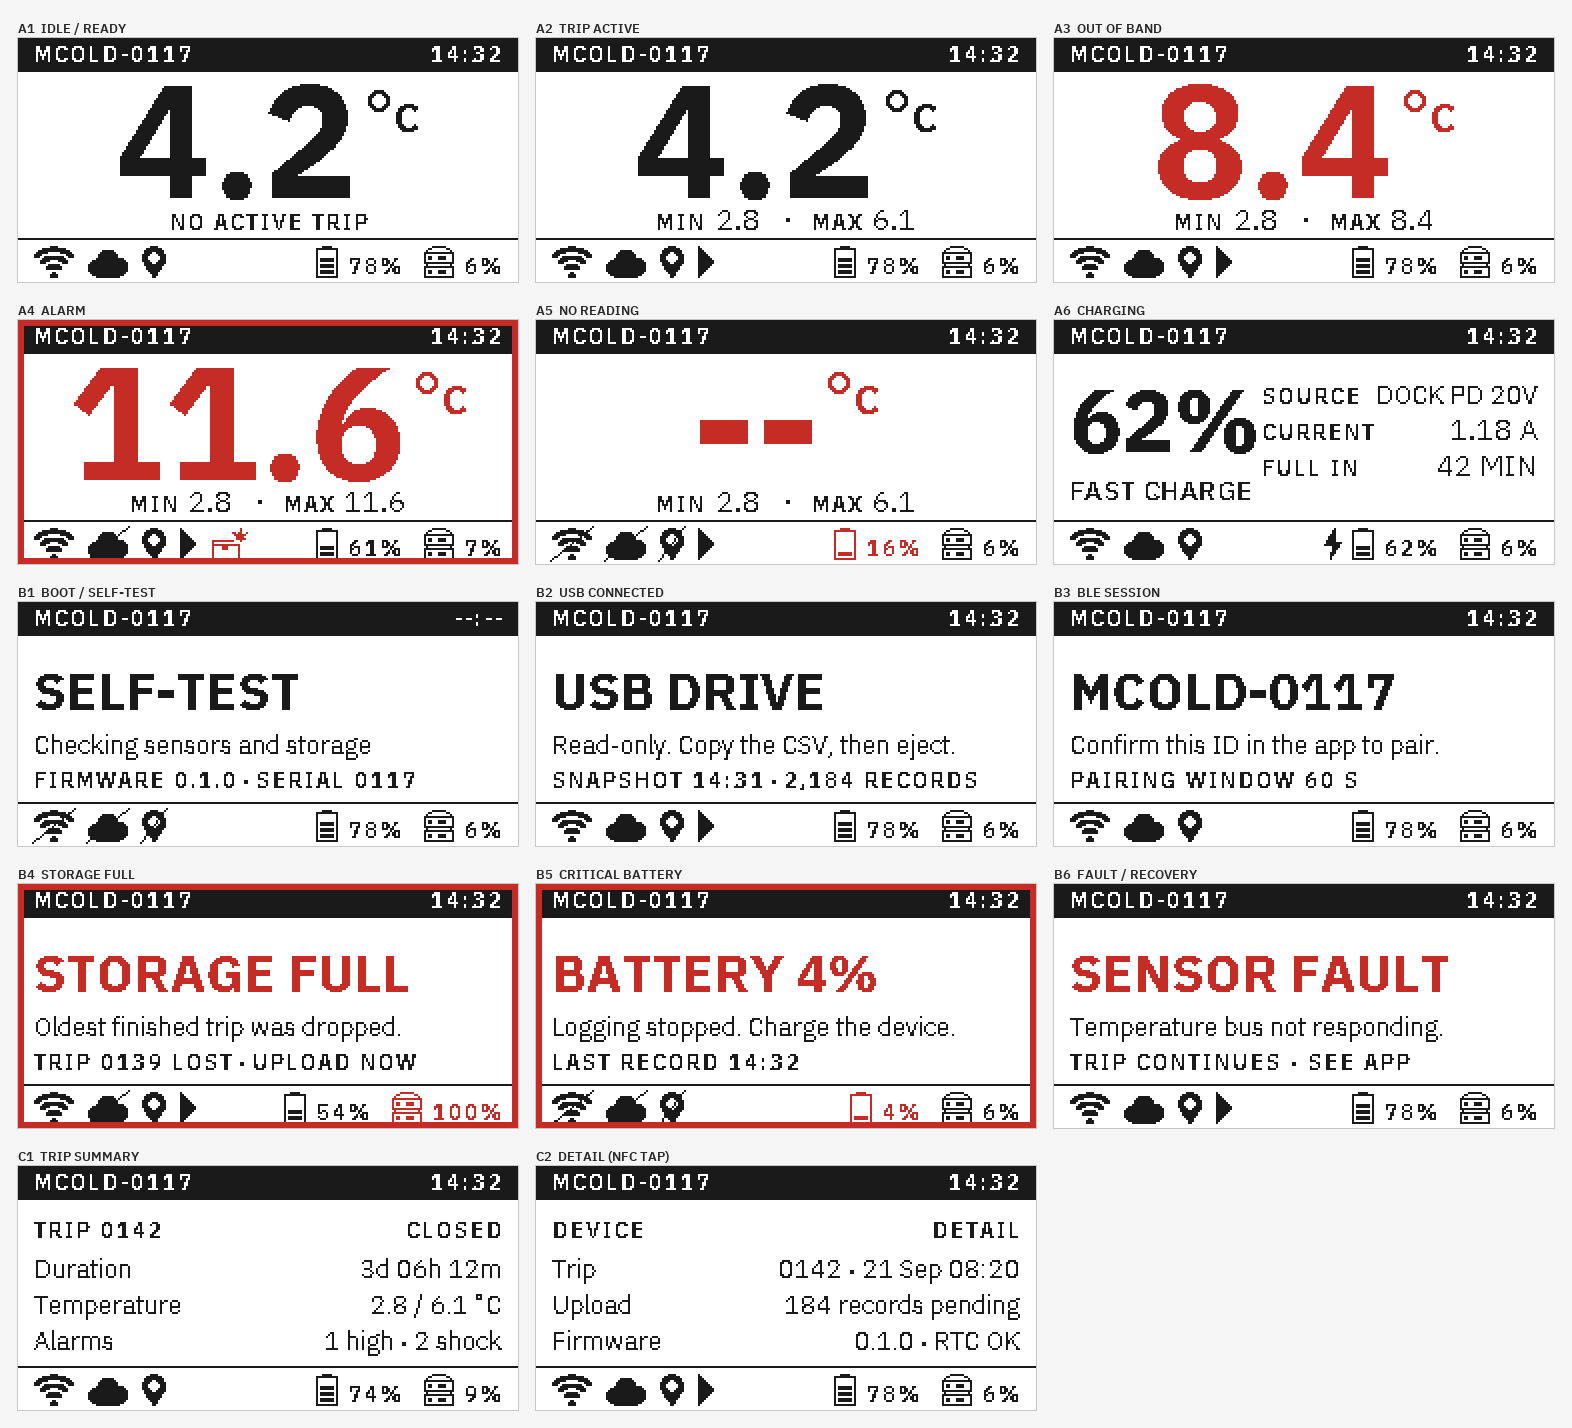
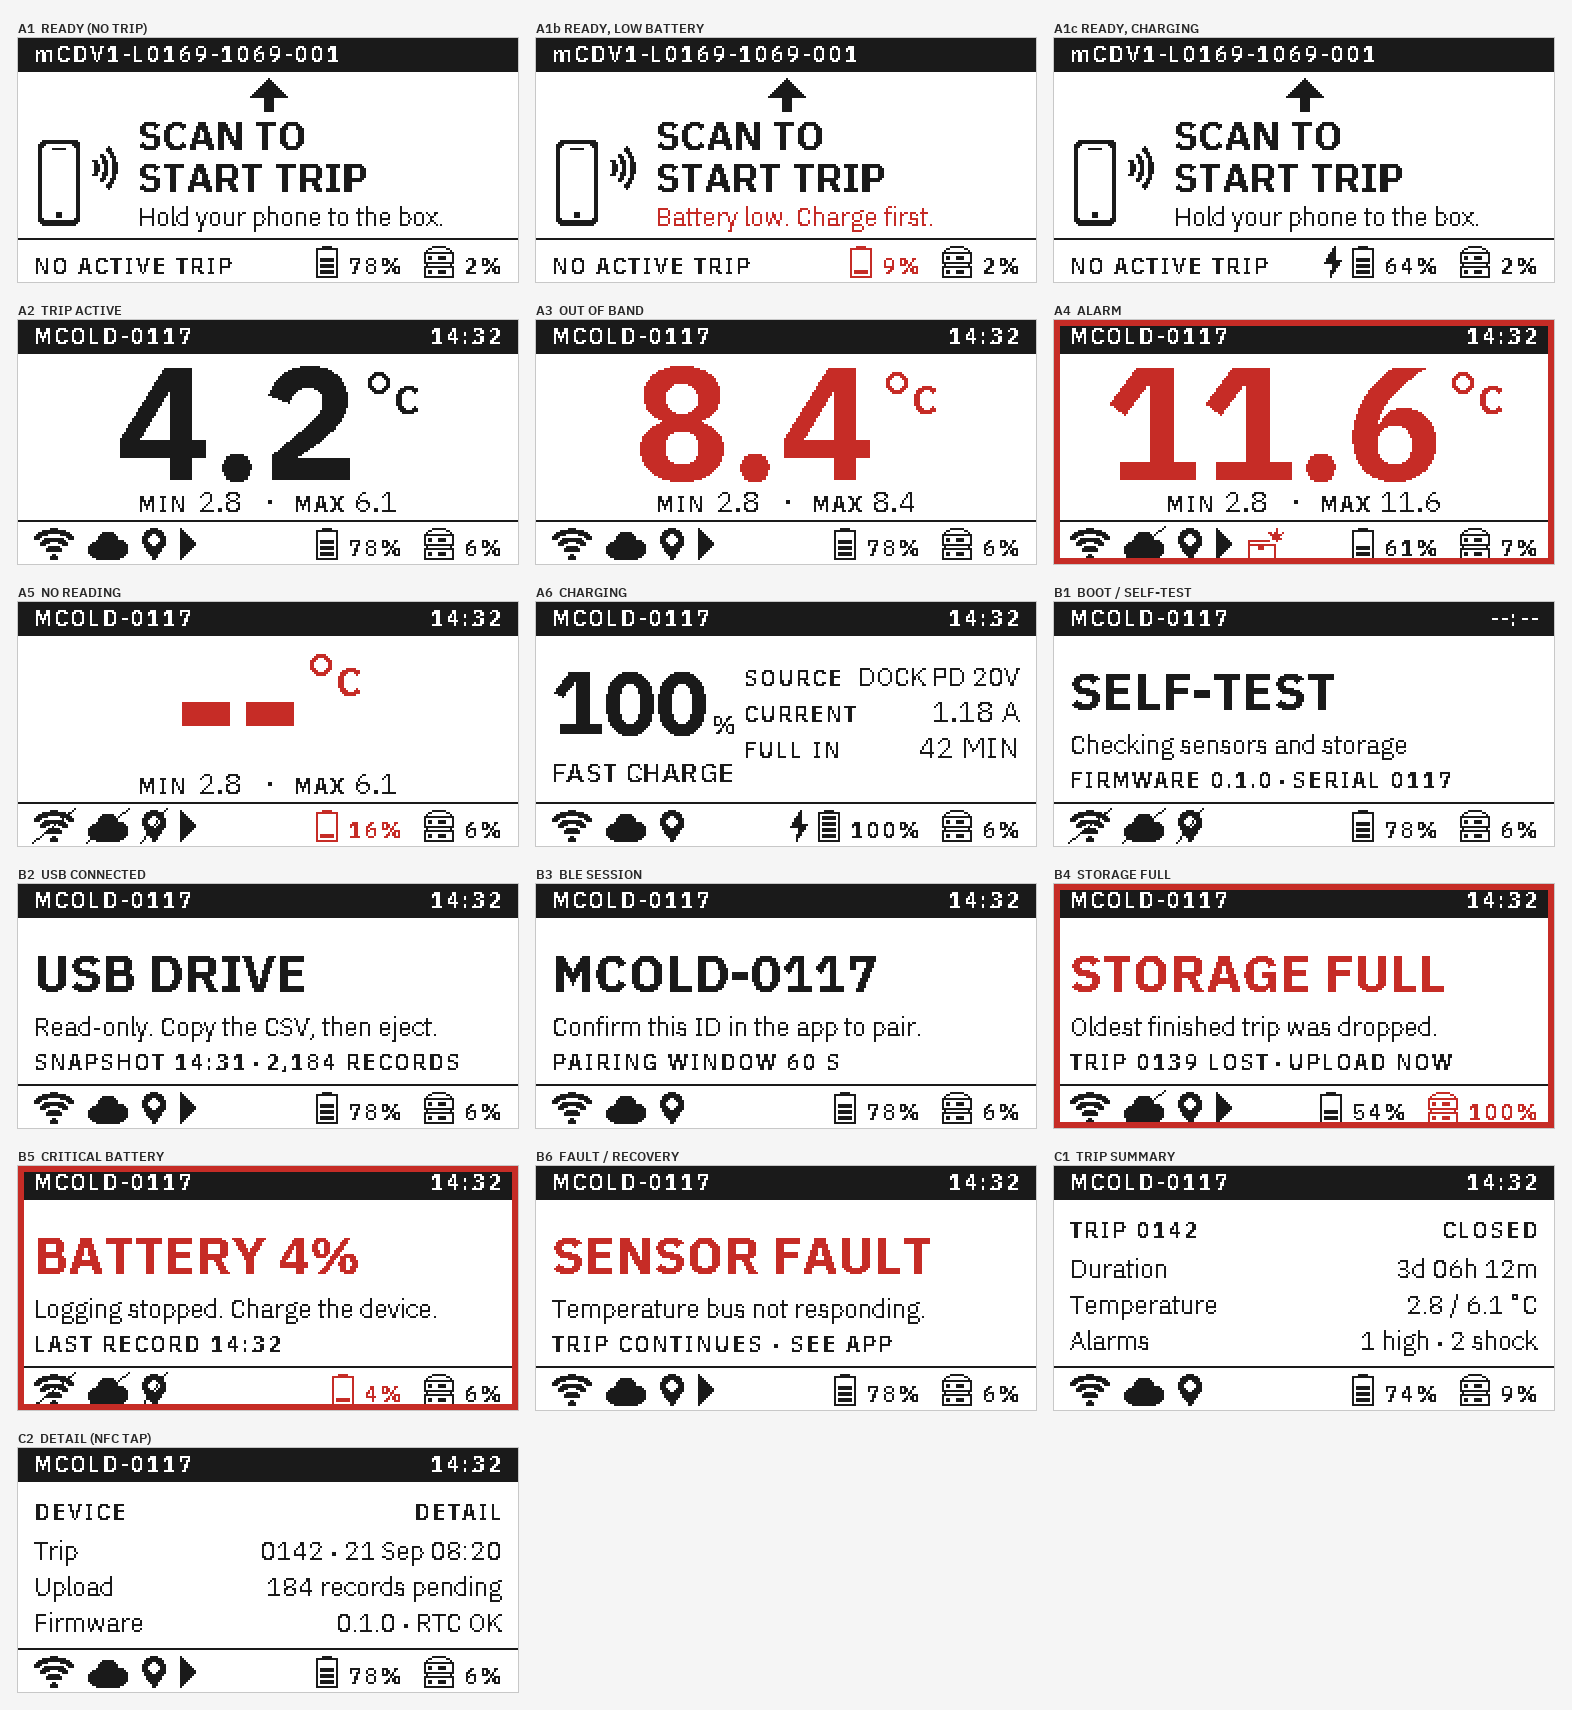
display-mock + design: READY page (scan to start trip)

diff --git a/display-mock/render.py b/display-mock/render.py
@@ -51,6 +51,7 @@ READING = font("Light", 15)      # min/max and charge-row values
 READINGS = [font("Light", s) for s in (15, 13, 12)]  # right-aligned values
 STATUS = font("Medium", 13)      # charge state word
 TITLE = font("Bold", 26)         # takeover headline
+TITLE_S = font("Bold", 20)       # READY headline, under the arrow
 BIG = font("Bold", 44)           # state of charge
 HEROES = [font("Bold", s) for s in (80, 72, 64)]
 HERO_UNIT = font("Bold", 20)     # the C of the unit; the ring is drawn
@@ -78,6 +79,7 @@ ICON_BOTTOM = 120   # footer icons stop one row above this
 # not. The battery is the one exception: it is a gauge, so it is drawn
 # from its value rather than blitted.
 ICONS = icons.bitmaps()
+TAP = icons.tap_rows()
 BATT_W, BATT_H = 11, icons.ICON_H
 
 
@@ -150,7 +152,7 @@ class Screen:
         self.text((EDGE_R, BASE_BAR), clock, CAPS, WHITE, anchor="rs", track=TRACK)
 
     def footer(self, *, trip=False, shock=False, wifi=False, cloud=False,
-               gnss=False, charging=False, battery=78, storage=6):
+               gnss=False, charging=False, battery=78, storage=6, note=None):
         """One row of state. `storage` is percent USED, so both readings
         move toward their own bad news and the red rule reads the same way
         for each. No SD indicator -- the card is optional and not
@@ -163,8 +165,14 @@ class Screen:
         # like "not refreshed". The two that come and go sit after them,
         # so neither ever shifts what is already there.
         x = M
-        for name, on in (("wifi", wifi), ("cloud", cloud), ("gnss", gnss)):
-            x += self.icon(name, x, ICON_BOTTOM, off=not on) + GAP
+        if note:
+            # READY: a still frame, so no live link icons -- they would be
+            # out of date within the hour and the frame is meant to stay.
+            self.text((M, BASE_FOOT), note, CAPS, track=TRACK)
+            x += self.width(note, CAPS, TRACK) + GAP
+        else:
+            for name, on in (("wifi", wifi), ("cloud", cloud), ("gnss", gnss)):
+                x += self.icon(name, x, ICON_BOTTOM, off=not on) + GAP
         if trip:
             x += self.icon("trip", x, ICON_BOTTOM) + GAP
         if shock:
@@ -341,13 +349,53 @@ def monitor(name, *, device="MCOLD-0117", clock="14:32", temp="4.2",
 
 
 # ---------------------------------------------------------------------
+# Ready -- no trip. One instruction and nothing that goes stale: no clock,
+# no temperature, no link icons, so the frame stays until a trip starts
+# or the battery has moved 5 % (decided 2026-10-05).
+# ---------------------------------------------------------------------
+def ready(name, *, device="mCDV1-L0169-1069-001", low=False, **flags):
+    s = Screen(name)
+    s.header(device, "")
+    # The arrow, centred, points at the tag: the NFC antenna sits above the
+    # middle of the panel (decided 2026-10-05).
+    m = Image.new("L", (W, H), 0)
+    d = mono(m)
+    cx, tip = W // 2, BAR + 3
+    d.polygon([(cx, tip), (cx + 9, tip + 9), (cx + 2, tip + 9), (cx + 2, tip + 16),
+               (cx - 2, tip + 16), (cx - 2, tip + 9), (cx - 9, tip + 9)], fill=255)
+    top = RULE - 6 - len(TAP)
+    for y, row in enumerate(TAP):
+        for x, ch in enumerate(row):
+            if ch == "#":
+                m.putpixel((M + x, top + y), 255)
+    s._stamp(m, BLACK)
+    x = M + len(TAP[0]) + 10
+    s.text((x, 56), "SCAN TO", TITLE_S)
+    s.text((x, 77), "START TRIP", TITLE_S)
+    if low:
+        s.text((x, 94), "Battery low. Charge first.", BODY, RED)
+    else:
+        s.text((x, 94), "Hold your phone to the box.", BODY)
+    for line, fnt in (("START TRIP", TITLE_S), ("Hold your phone to the box.", BODY),
+                      ("Battery low. Charge first.", BODY)):
+        if x + s.width(line, fnt) > EDGE_R:
+            print(f"  warn {name}: {line!r} overflows by "
+                  f"{round(x + s.width(line, fnt) - EDGE_R)} px")
+    s.footer(note="NO ACTIVE TRIP", **flags)
+    return s.save()
+
+
+# ---------------------------------------------------------------------
 # Charge screen -- no temperature; the full charging picture instead.
 # ---------------------------------------------------------------------
 def charge(name, *, device="MCOLD-0117", clock="14:32", soc=62,
            state="FAST CHARGE", rows=(), **flags):
     s = Screen(name)
     s.header(device, clock)
-    s.text((M, 66), f"{soc}%", BIG)
+    # The number big, the sign small: "100%" in the big face is 121 px and
+    # ran into the rows beside it (2026-10-05).
+    s.text((M, 66), f"{soc}", BIG)
+    s.text((M + s.width(f"{soc}", BIG) + 2, 66), "%", STATUS)
     s.text((M, 90), state, STATUS, track=0.4)
     col = 104
     for i, (label, value) in enumerate(rows):
@@ -415,9 +463,10 @@ def build():
     OUT.mkdir(exist_ok=True)
     add = SCREENS.append
 
-    add(("A1  IDLE / READY", monitor(
-        "A1_idle", minmax=None, note="NO ACTIVE TRIP",
-        wifi=True, cloud=True, gnss=True, battery=78, storage=6)))
+    add(("A1  READY (NO TRIP)", ready("A1_idle", battery=78, storage=2)))
+    add(("A1b READY, LOW BATTERY", ready("A1b_idle_low", low=True, battery=9, storage=2)))
+    add(("A1c READY, CHARGING", ready("A1c_idle_charging", charging=True, battery=64,
+                                       storage=2)))
 
     add(("A2  TRIP ACTIVE", monitor("A2_trip", **LIVE)))
 
@@ -434,12 +483,12 @@ def build():
         trip=True, wifi=False, cloud=False, battery=16, storage=6)))
 
     add(("A6  CHARGING", charge(
-        "A6_charging", soc=62, state="FAST CHARGE", rows=(
+        "A6_charging", soc=100, state="FAST CHARGE", rows=(
             ("SOURCE", "DOCK PD 20V"),
             ("CURRENT", "1.18 A"),
             ("FULL IN", "42 MIN")),
         charging=True, wifi=True, cloud=True, gnss=True,
-        battery=62, storage=6)))
+        battery=100, storage=6)))
 
     add(("B1  BOOT / SELF-TEST", takeover(
         "B1_boot", clock="--:--", title="SELF-TEST", sub="Checking sensors and storage",

diff --git a/display-mock/icons.py b/display-mock/icons.py
@@ -276,6 +276,59 @@ def storage():
     return img
 
 
+# ---------------------------------------------------------------------
+# Tap: a phone with the contactless arcs off its side -- the READY page's
+# picture of "hold your phone to the box". Not a footer mark: it has its
+# own height, and its own C type in the firmware (Pict, 48 rows max).
+# ---------------------------------------------------------------------
+TAP_H = 44
+TAP_W = 42
+TAP_PHONE = (2.0, 1.0, 23.0, 43.6)   # left, top, right, bottom
+TAP_LINE = 2.4
+TAP_ARC_C = (25.5, 15.0)            # arcs open to the right from here
+TAP_ARC_R = (6.0, 10.5, 15.0)
+TAP_ARC_SPAN = 42.0                 # degrees either side of horizontal
+
+
+def tap():
+    w, h = TAP_W, TAP_H
+    big, d, s = canvas(w, h)
+    l, t, r, b = TAP_PHONE
+    rad = 3.2
+    d.rounded_rectangle([l * s, t * s, r * s, b * s], radius=rad * s, fill=1)
+    k = TAP_LINE
+    d.rounded_rectangle([(l + k) * s, (t + k) * s, (r - k) * s, (b - k) * s],
+                        radius=(rad - 1.2) * s, fill=0)
+    # The earpiece and the button: a phone, not a door. A filled screen
+    # was tried and read as a black slab at this size.
+    d.rectangle([((l + r) / 2.0 - 3.0) * s, (t + k + 1.6) * s, ((l + r) / 2.0 + 3.0) * s,
+                 (t + k + 3.0) * s], fill=1)
+    disc(d, s, (l + r) / 2.0, b - k - 2.9, 1.6)
+    # The arcs, tested point by point as for Wi-Fi.
+    bp = big.load()
+    cx, cy = TAP_ARC_C
+    span = math.radians(TAP_ARC_SPAN)
+    half = TAP_LINE / 2.0
+    for py in range(h * SS):
+        y = (py + 0.5) / SS
+        for px in range(w * SS):
+            x = (px + 0.5) / SS
+            dx, dy = x - cx, y - cy
+            if dx <= 0 or abs(math.atan2(dy, dx)) > span:
+                continue
+            rr = math.hypot(dx, dy)
+            if any(abs(rr - a) <= half for a in TAP_ARC_R):
+                bp[px, py] = 1
+    return threshold(big, w, h)
+
+
+def tap_rows():
+    img = tap()
+    w, h = img.size
+    px = img.load()
+    return tuple("".join("#" if px[x, y] else "." for x in range(w)) for y in range(h))
+
+
 ICONS = [("WIFI", wifi), ("CLOUD", cloud), ("GNSS", pin), ("TRIP", trip),
          ("SHOCK", shock), ("CHARGE", bolt), ("STORAGE", storage)]
 
@@ -325,6 +378,11 @@ def main():
         body = (",\n" + lead).join(f'"{r}"' for r in rows)
         print(f"static const Icon ICON_{name} = {{{w}, {h}, {{{body}}}}};")
         print()
+
+    rows = tap_rows()
+    lead = " " * len(f"static const Pict PICT_TAP = {{{TAP_W}, {TAP_H}, {{")
+    body = (",\n" + lead).join(f'"{r}"' for r in rows)
+    print(f"static const Pict PICT_TAP = {{{TAP_W}, {TAP_H}, {{{body}}}}};")
 
 
 if __name__ == "__main__":

diff --git a/display-mock/README.md b/display-mock/README.md
@@ -35,7 +35,9 @@ python display-mock/icons.py       # แถบพรีวิวไอคอน 
 
 | Code | State | ไฟล์ |
 |---|---|---|
-| A1 | IDLE / READY | `A1_idle.png` |
+| A1 | READY — ไม่มี trip: "SCAN TO START TRIP" | `A1_idle.png` |
+| A1b | READY แบตต่ำ (เริ่ม trip ไม่ได้) | `A1b_idle_low.png` |
+| A1c | READY ระหว่างชาร์จ | `A1c_idle_charging.png` |
 | A2 | TRIP ACTIVE | `A2_trip.png` |
 | A3 | OUT OF BAND | `A3_warning.png` |
 | A4 | ALARM | `A4_alarm.png` |
